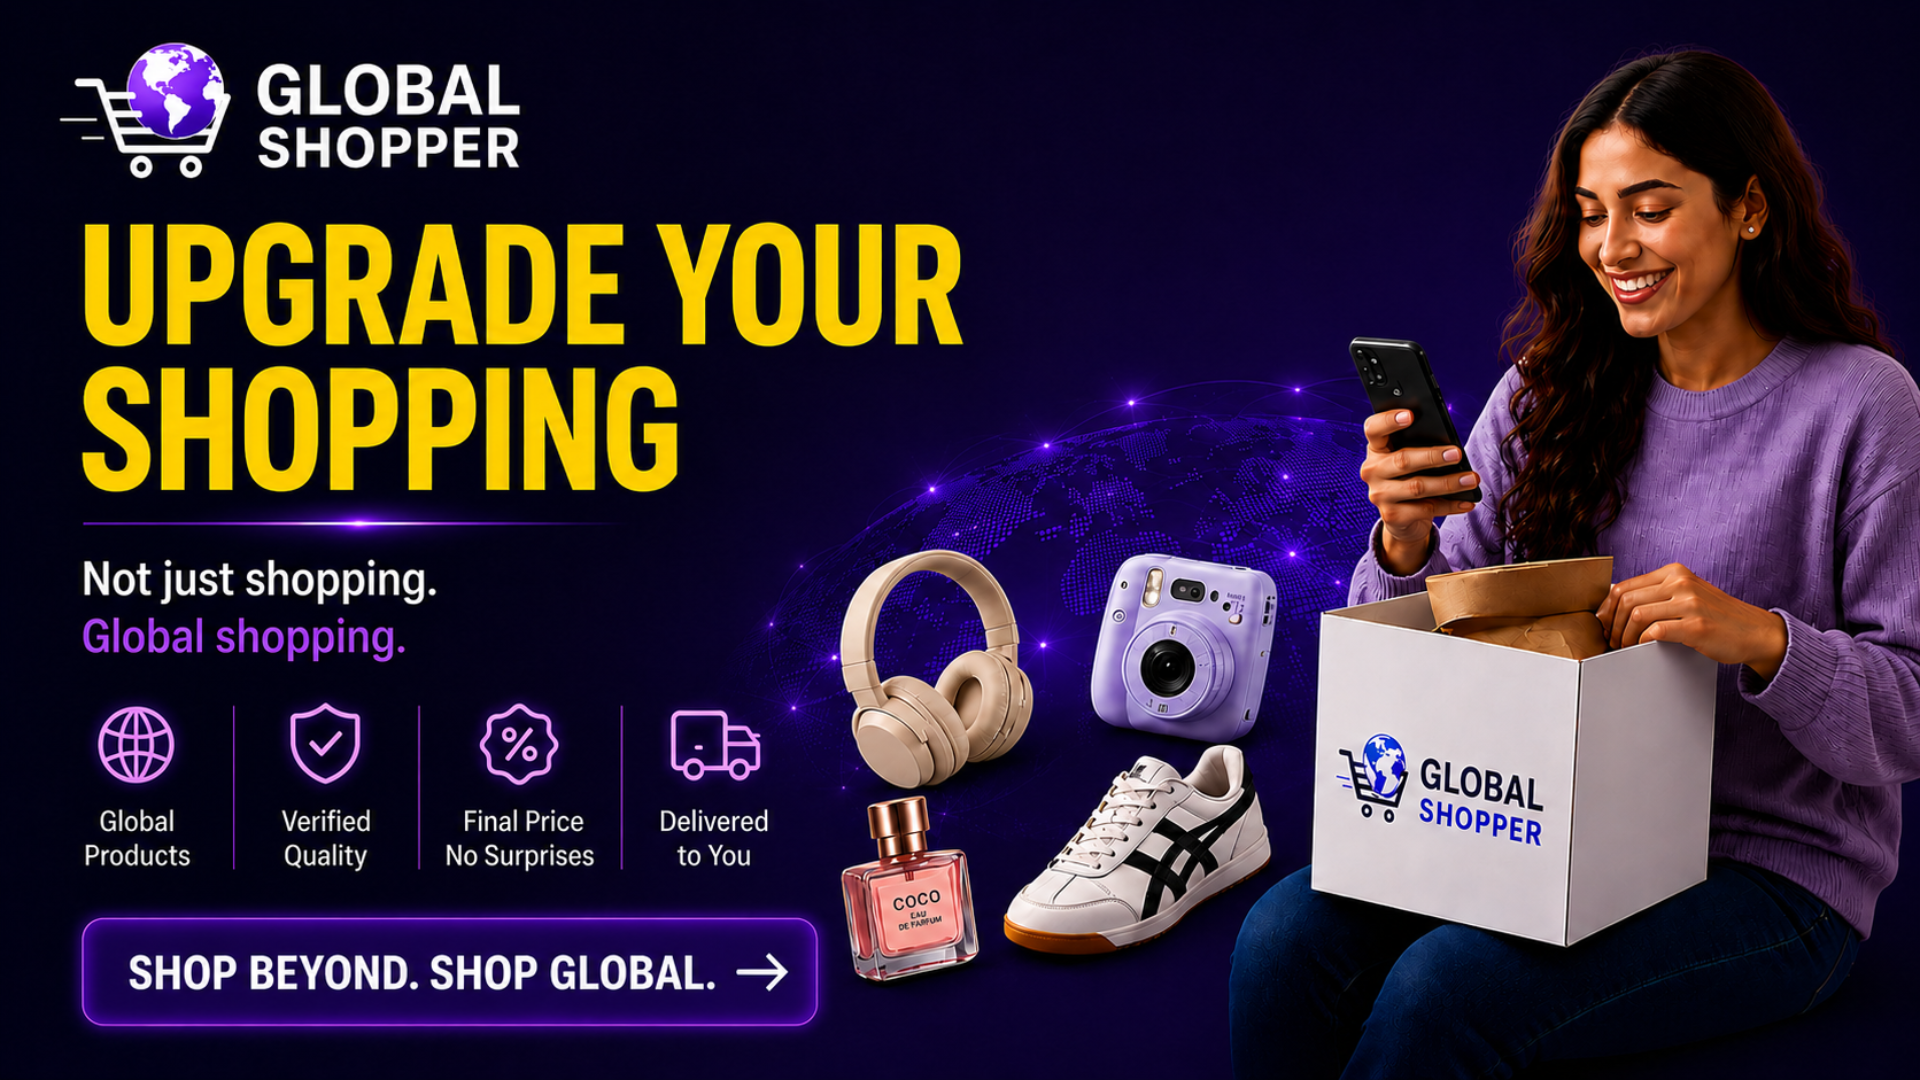
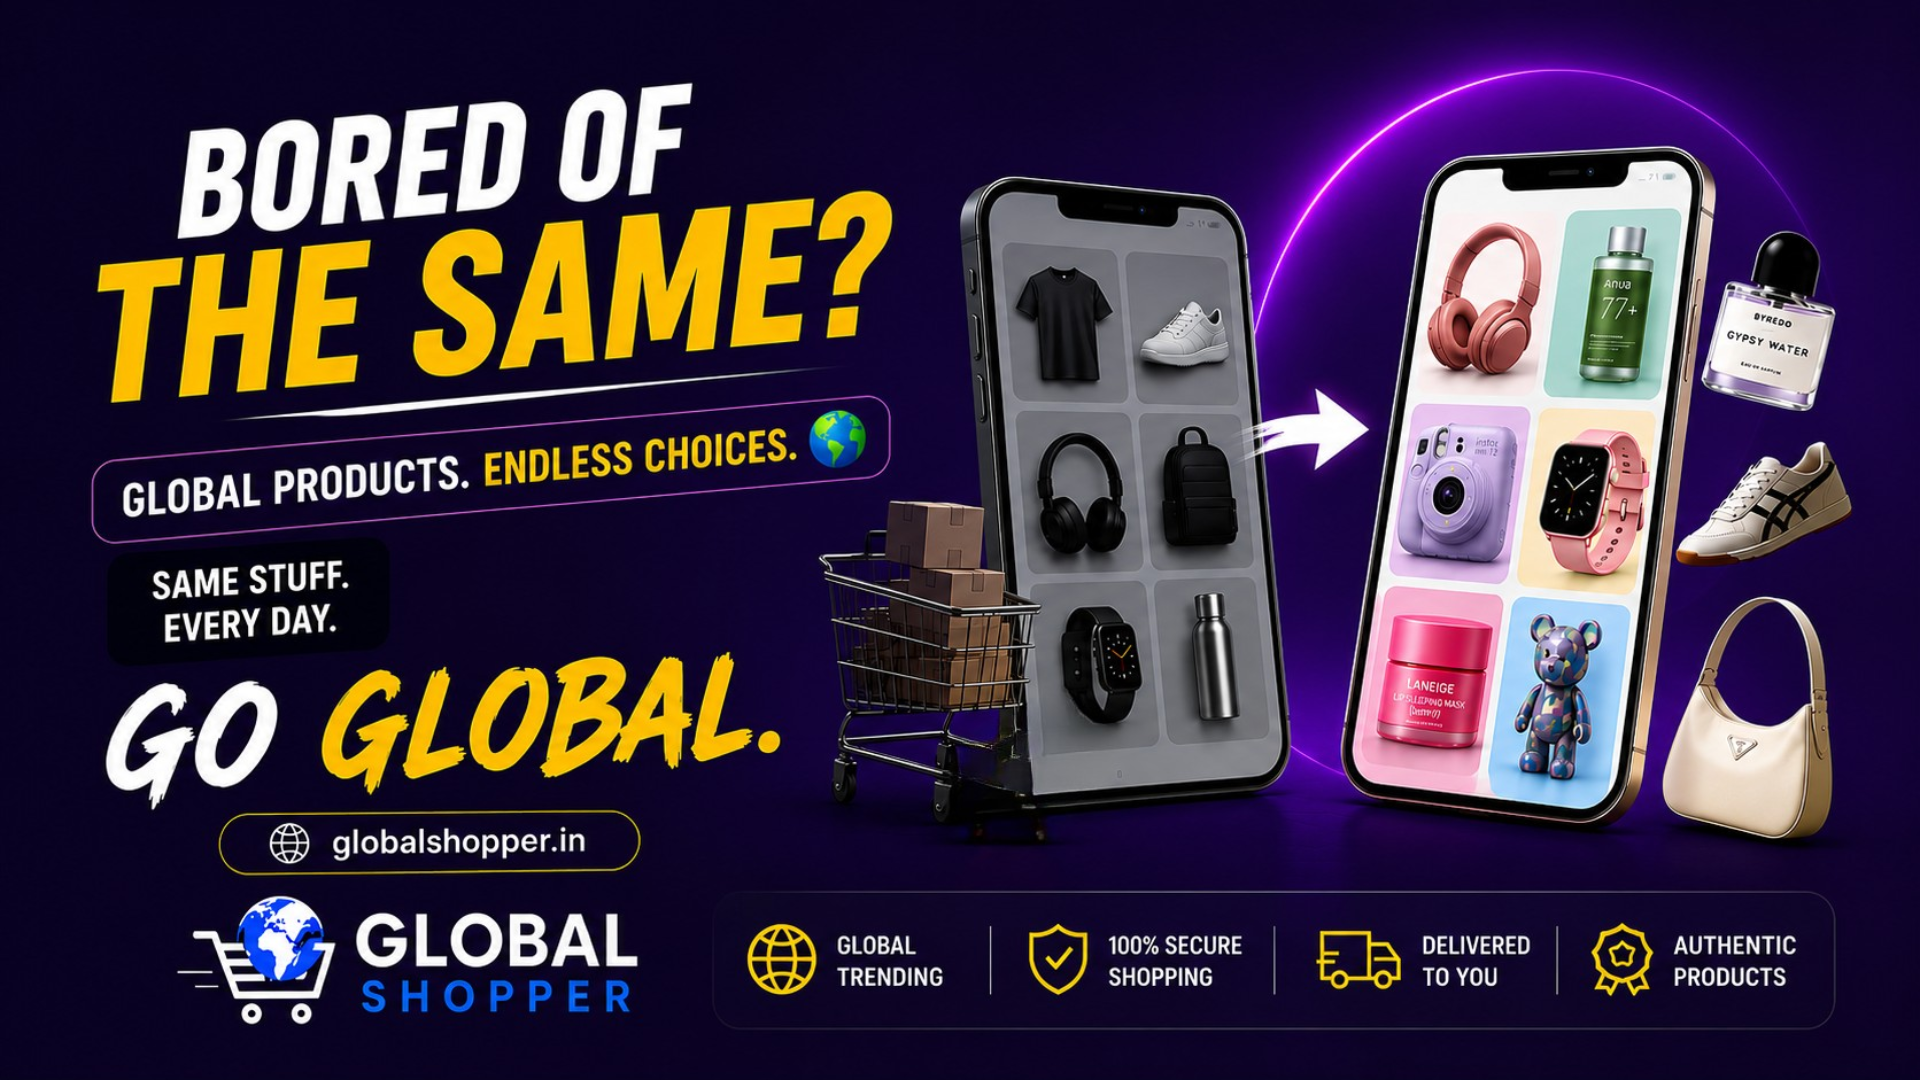
Fix slide 1 / slide 2 duplicate — wrong source file used
My previous slide refresh used ~/Downloads/6-3.png for slot 1 thinking
it was the "BORED OF THE SAME?" artwork. It was actually the UPGRADE
YOUR SHOPPING banner — same content as slot 2 — which produced two
identical slides back-to-back.

The real "BORED OF THE SAME?" high-res banner is in
~/Downloads/1-2.png (1920x1080, 1.8MB). Copy that to global-usp-1.jpg
instead.

After this fix, all 5 carousel slots have unique artwork:
  1. BORED OF THE SAME? / GO GLOBAL
  2. UPGRADE YOUR SHOPPING
  3. TRENDING IN US, NOW IN INDIA
  4. BEYOND BORDERS. BEYOND ORDINARY.
  5. STOP SETTLING / START SHOPPING WHAT'S POSSIBLE

Cache-buster on the slide IMG src bumped from v=20260513usp to
v=20260513usp2 so returning visitors actually fetch the fixed slot 1.

diff --git a/public/index.html b/public/index.html
@@ -83,7 +83,7 @@
   <!-- v query-string busts the browser cache whenever we ship UI
        changes. Bump the suffix to force fresh JS/CSS downloads even
        on browsers that ignore Cache-Control: no-cache. -->
-  <link rel="stylesheet" href="/css/styles.css?v=20260513-new-hero-slides" />
+  <link rel="stylesheet" href="/css/styles.css?v=20260513-fix-slide1-dupe" />
   <script>
     // 1) MIGRATE OLD HASH URLs — anyone hitting /#/cart from a stale
     //    bookmark or shared link is silently redirected to /cart so
@@ -355,8 +355,8 @@
   <!-- Razorpay Checkout — loaded async so it doesn't block the page;
        only used on the checkout page when the customer hits "Pay & Place order". -->
   <script src="https://checkout.razorpay.com/v1/checkout.js" async></script>
-  <script src="/js/app.js?v=20260513-new-hero-slides"></script>
-  <script src="/js/app-store.js?v=20260513-new-hero-slides"></script>
+  <script src="/js/app.js?v=20260513-fix-slide1-dupe"></script>
+  <script src="/js/app-store.js?v=20260513-fix-slide1-dupe"></script>
   <!-- Surface any uncaught JS error in the page so we can debug from
        the browser without DevTools. Goes to console.error and shows
        a discreet banner if anything blows up. -->

diff --git a/public/js/app.js b/public/js/app.js
@@ -2189,7 +2189,7 @@ async function renderHome() {
             <div class="home-usp-track">
               ${HOME_USP_SLIDES.map((slide, index) => `
                 <a class="home-usp-slide${index === 0 ? ' is-active' : ''}" href="${slide.href}" aria-label="${esc(slide.label)}" aria-hidden="${index === 0 ? 'false' : 'true'}" tabindex="${index === 0 ? '0' : '-1'}">
-                  <img src="${slide.src}?v=20260513usp" alt="${esc(slide.alt)}" width="1920" height="1080" loading="${index === 0 ? 'eager' : 'lazy'}" decoding="async"${index === 0 ? ' fetchpriority="high"' : ''} />
+                  <img src="${slide.src}?v=20260513usp2" alt="${esc(slide.alt)}" width="1920" height="1080" loading="${index === 0 ? 'eager' : 'lazy'}" decoding="async"${index === 0 ? ' fetchpriority="high"' : ''} />
                 </a>
               `).join('')}
             </div>